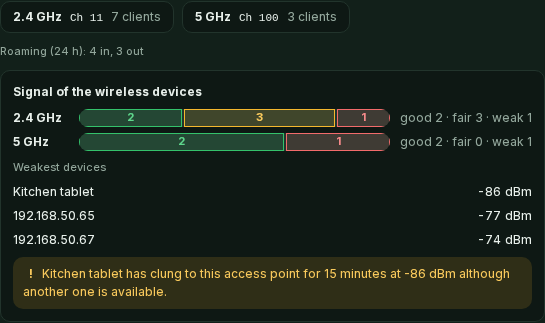
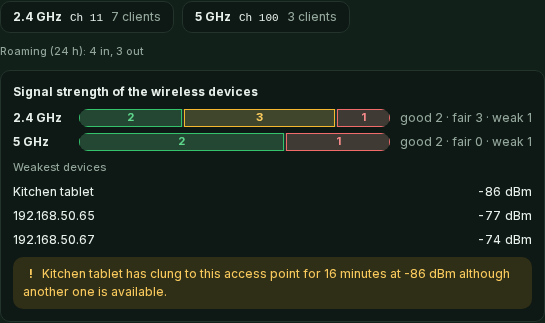
W2: wording that avoids a third-party name, fresh screenshots

Changed region(s): [[0.0936, 0.2477, 0.4679, 0.3096], [0.5927, 0.8359, 0.6239, 0.8669]]

diff --git a/lanloom/web/js/portfront.js b/lanloom/web/js/portfront.js
@@ -165,7 +165,7 @@
       r.clients != null ? h('span', { class: 'muted' }, t('pf.clients', { n: r.clients })) : null)));
   }
 
-  // Signal of the wireless clients of an access point (W2): one bar per band (good / fair / weak), the weakest devices, and the
+  // Signal strength of the wireless clients of an access point (W2): one bar per band (good / fair / weak), the weakest devices, and the
   // devices that cling to this access point at -80 dBm or weaker. Hints, not errors; the wording says what, the colour only helps.
   function signalBlock(sig) {
     if (!sig || !sig.bands) return null;

diff --git a/CHANGELOG.md b/CHANGELOG.md
@@ -5,7 +5,7 @@ All notable changes to this project are documented here. The format follows [Kee
 ## [Unreleased]
 
 ### Added
-- **Signal of wireless devices at an access point, and devices that cling to a far one.** The controller adapters now read the signal strength of wireless clients (whole dBm, -100 to -10, anything else is dropped) from the client lists they already request - the generic controller family, the UniFi classic list, Omada (`rssi`, never the percentage), MikroTik (both registration tables, also `-62@5GHz`) and OpenWrt - without an extra request. The access point card shows one bar per band (good from -65 dBm, fair down to -75 dBm, weak below) and the weakest devices, in six languages. A device that stays at -80 dBm or weaker on the same access point for ten minutes although the site has another is marked *clinging*, with the time - a hint, never an error; a move, a missing reading or a better value starts the clock again. The nightly report gets a line per clinging device (only when there are any) and counts the moves between access points during the period. The demo shows a tablet at -86 dBm at the far access point. Signal, moves and the clinging state are kept in memory only - never who was at which access point when - and each site keeps its own.
+- **Signal strength of wireless devices at an access point, and devices that cling to a far one.** The controller adapters now read the signal strength of wireless clients (whole dBm, -100 to -10, anything else is dropped) from the client lists they already request - the generic controller family, the UniFi classic list, Omada (`rssi`, never the percentage), MikroTik (both registration tables, also `-62@5GHz`) and OpenWrt - without an extra request. The access point card shows one bar per band (good from -65 dBm, fair down to -75 dBm, weak below) and the weakest devices, in six languages. A device that stays at -80 dBm or weaker on the same access point for ten minutes although the site has another is marked *clinging*, with the time - a hint, never an error; a move, a missing reading or a better value starts the clock again. The nightly report gets a line per clinging device (only when there are any) and counts the moves between access points during the period. The demo shows a tablet at -86 dBm at the far access point. The signal strength, the moves and the clinging state are kept in memory only - never who was at which access point when - and each site keeps its own.
 - **NetFlow / IPFIX: one block per exporter.** *Settings > NetFlow / IPFIX from your router* now shows every allowed exporter on its own: protocol (NetFlow v5, v9 or IPFIX), *Sending* / *Quiet for* / *Nothing received yet*, last packet, flows and bytes to the internet, the templates it sent (known, expired, restarts seen) and its own waiting and unreadable counts. `GET /api/netflow` carries these figures per exporter.
 - **Flow packets from an address that is not allowed are offered, never taken.** A router often sends from another of its addresses than the gateway; the card lists such senders (flow packets only, the last 8 of the past 24 hours, with packet count, last packet and protocol) with an **Allow** button that adds the address to the allowed exporters and saves. Packets from them stay dropped until then. `GET /api/netflow` carries `refused_senders` (administrators only, memory only).
 - **Recorded sample packets for the receiver.** Made-up NetFlow v5, v9 and IPFIX packets (`tests/fixtures/netflow/`, written by `tests/netflow_samples.py`, documentation and loopback addresses only) are replayed into the receiver and through a real UDP socket into the core: data before its template, IPv4 and IPv6 templates, options records with a sampling rate, a v9 restart, a cut-off packet, IPFIX variable-length and vendor fields, an options template, a template withdrawal, and a sender that is not allowed. A manual page *NetFlow / IPFIX* describes the receiver.

diff --git a/docs/manual/network.md b/docs/manual/network.md
@@ -25,15 +25,15 @@ in?".
   colour). A port opens a detail line with the live rate. An access point shows its radios with channel and clients now,
   and how often devices moved to or from it in 24 hours. The same panels are in the equipment card of the
   [Firewall](firewall.md) tab.
-- **Signal of wireless devices.** When the controller reports it, an access point also shows the signal of its devices:
+- **Signal strength of wireless devices.** When the controller reports it, an access point also shows the signal of its devices:
   one bar per band split into *good* (-65 dBm and stronger), *fair* (down to -75 dBm) and *weak*, and the weakest few
   devices with their value. A device that stays at -80 dBm or weaker on the same access point for ten minutes although
   the site has another one is marked as **clinging** with how long - a hint, never an error; with only one access point
-  nothing can cling. Signal, moves and the clinging state live in memory only: Lanloom never keeps who was at which access
+  nothing can cling. The signal strength, the moves and the clinging state live in memory only: Lanloom never keeps who was at which access
   point when (that would be a movement profile), and sites stay apart. Controllers that do not report a signal
   simply show no bars. See also [the nightly report](nightly-reports.md).
 
-  ![Signal of the wireless devices of an access point, with a device clinging to it](../screenshots/ap-signal-light.png)
+  ![Signal strength of the wireless devices of an access point, with a device clinging to it](../screenshots/ap-signal-light.png)
 
   ![The same in the dark theme](../screenshots/ap-signal-dark.png)
 - **Exact traffic on cables.** Where one device sits alone on a switch port, the dots on its cable follow the counters of
